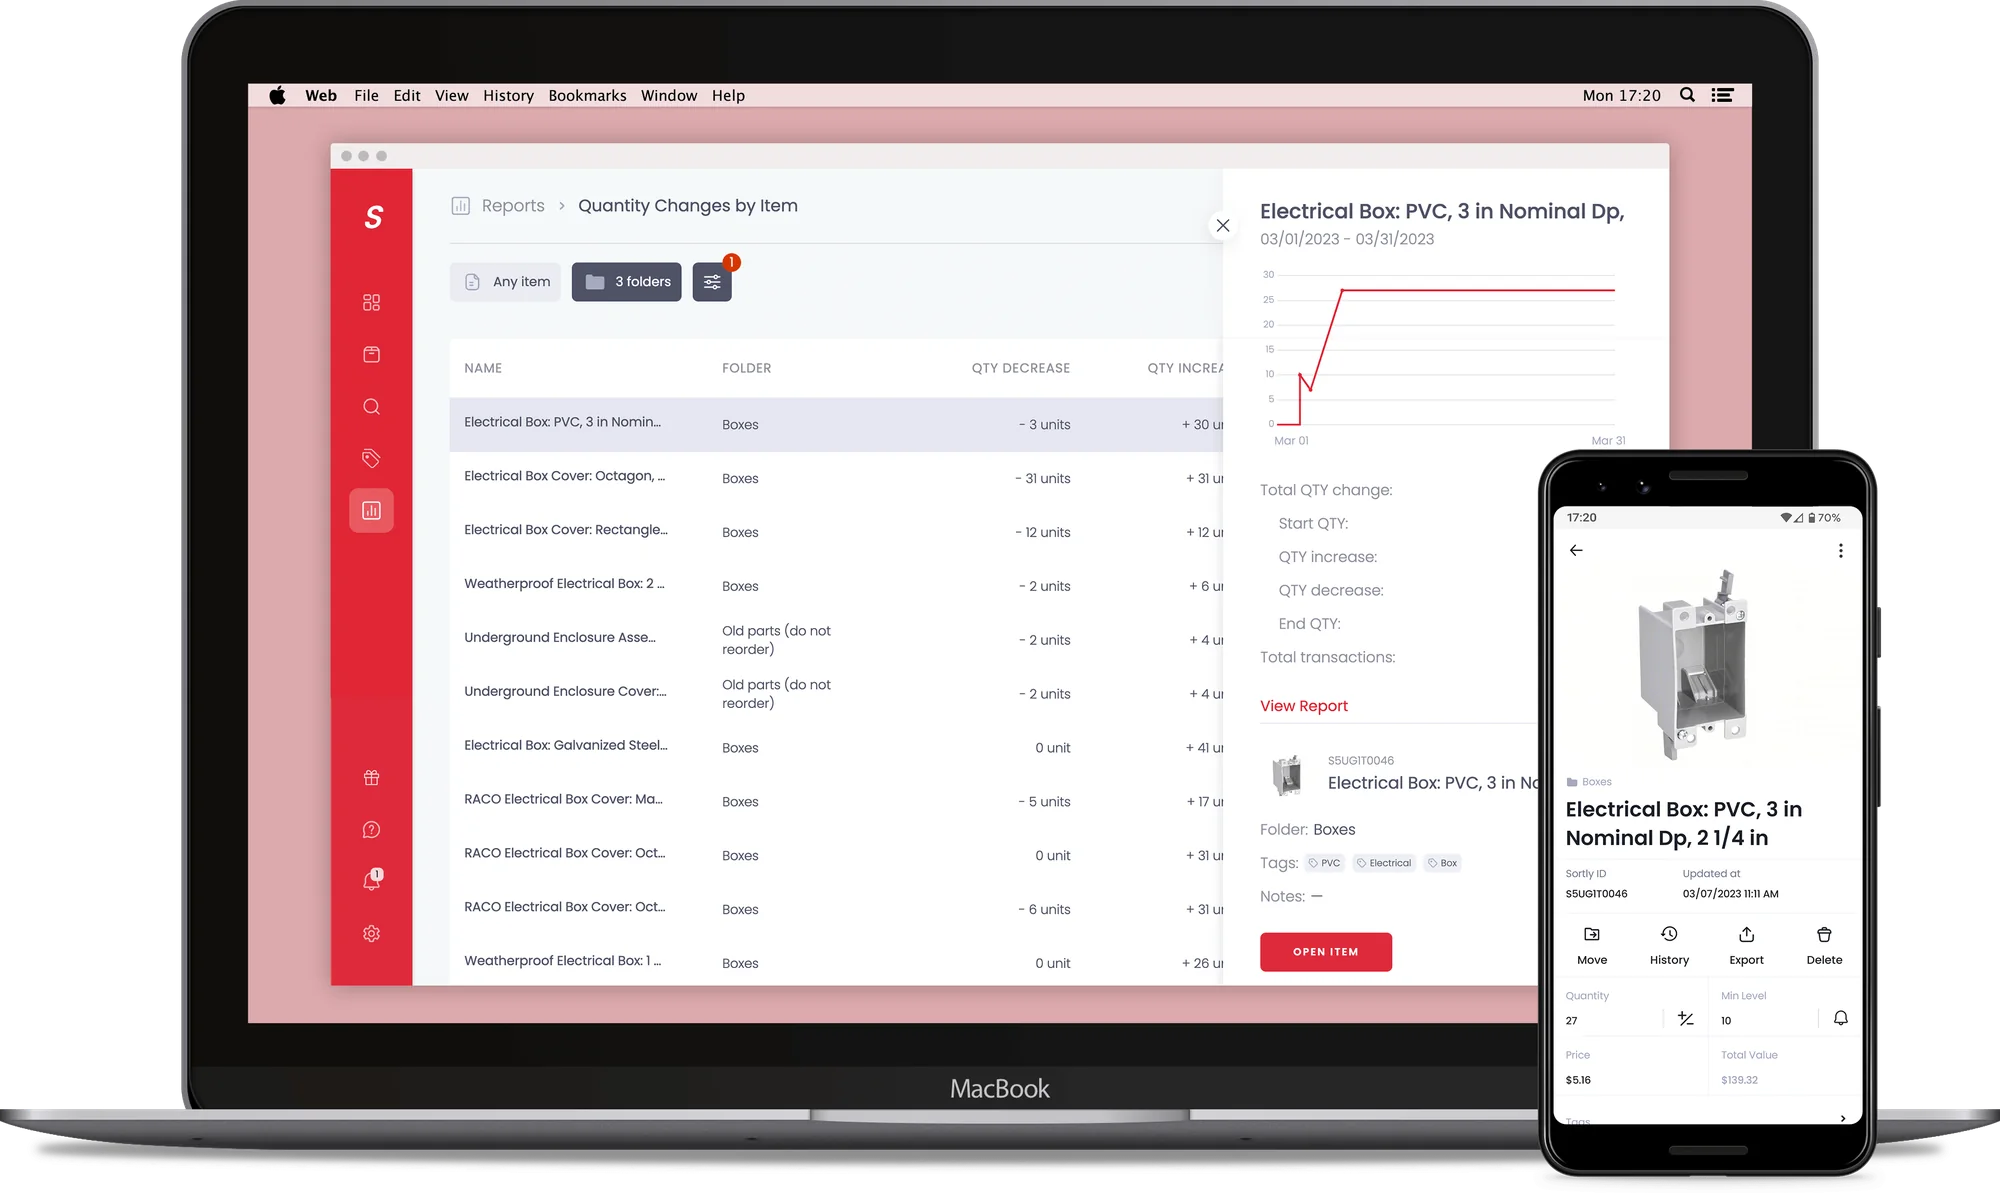
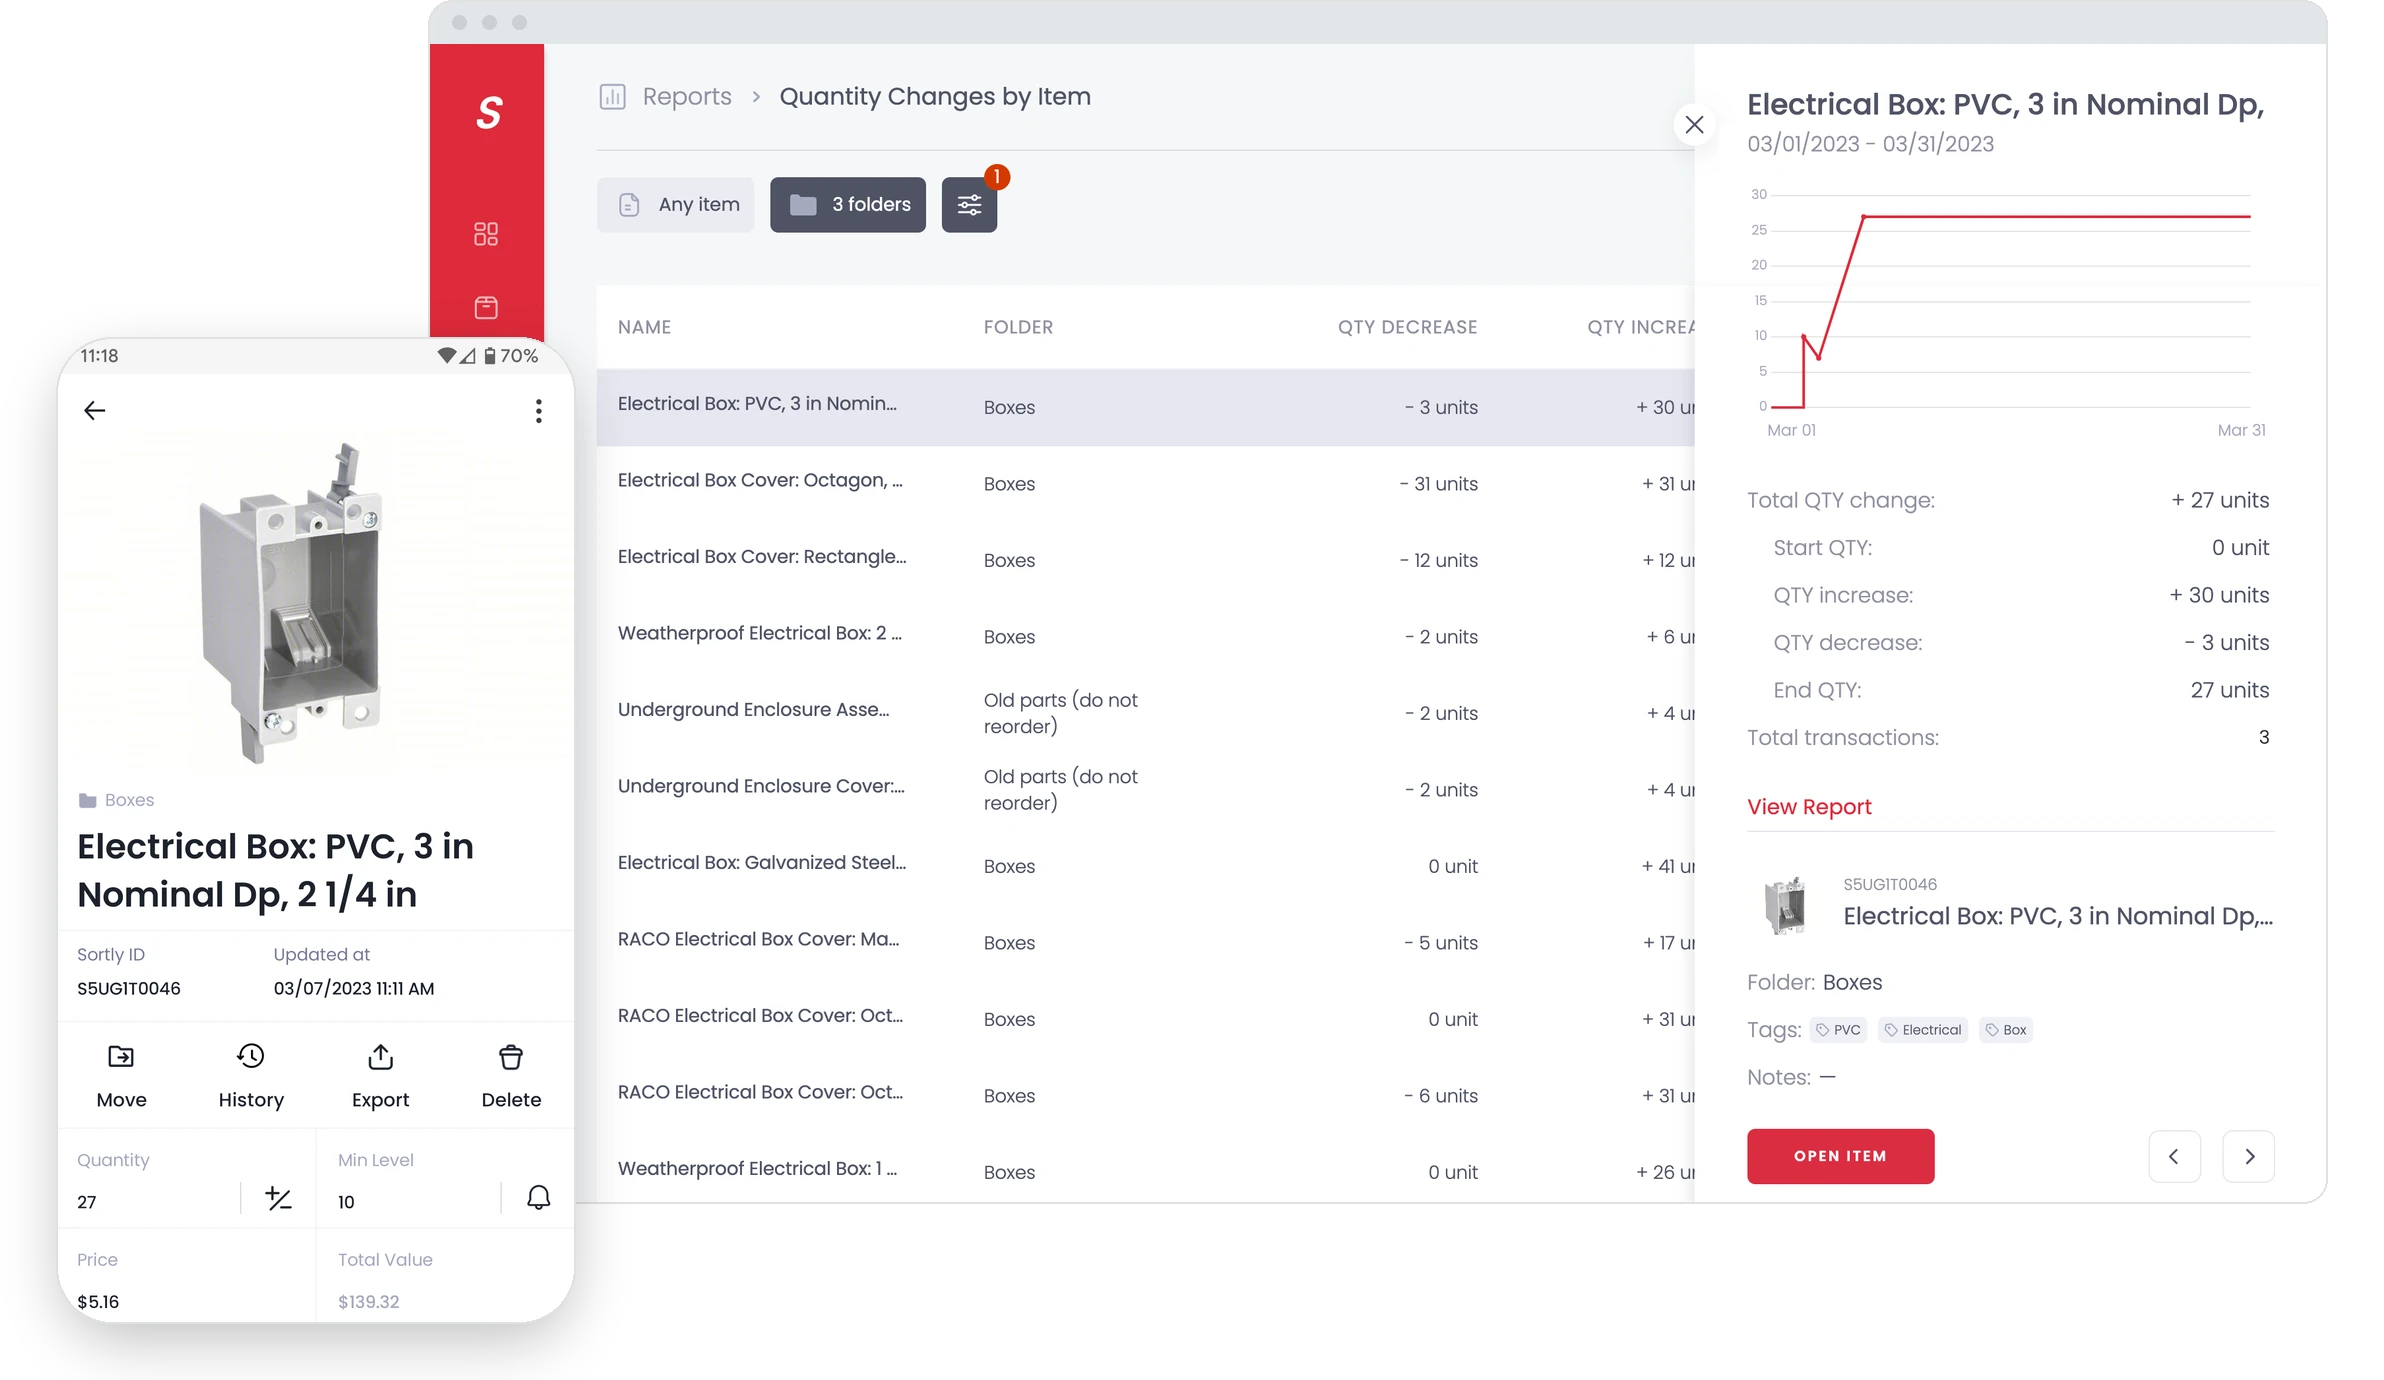
Sortly: new hero (report window + flat phone, no laptop); round the live hero embed's top corners
Claude-Session: https://claude.ai/code/session_01VXSKCsyRqCv6TwdNvrmcXN

diff --git a/sortly.html b/sortly.html
@@ -38,7 +38,7 @@
       </ul>
     </div>
 
-    <div class="shot"><img src="assets/img/work/sortly-hero.webp" width="2000" height="1193" alt="Sortly product, hero view"></div>
+    <div class="shot"><img src="assets/img/work/sortly-hero.webp" width="2384" height="1380" alt="Sortly product, hero view"></div>
 
     <div class="col prose">
       <p class="m-rise">Sortly helps small businesses keep track of what they have, where it is, and what needs attention. I led design across product and marketing, with a team of designers and researchers and our agency partners. Together we redefined the core product experience, and that work shaped the roadmap, pricing, and packaging.</p>

diff --git a/assets/js/site.js b/assets/js/site.js
@@ -128,6 +128,8 @@
       live.style.aspectRatio = 'auto';
       live.style.height = Math.ceil(e.data.sasHero) + 'px';
       frameH = e.data.frame;
+      // round the embed's top corners too, for browsers that don't clip the scaled window inside it
+      live.style.borderRadius = (12 * e.data.frame / 760) + 'px ' + (12 * e.data.frame / 760) + 'px 0 0';
       split();
     });
     $$('.case .story .shot img').forEach(function (i) { if (!i.complete) i.addEventListener('load', split); });
